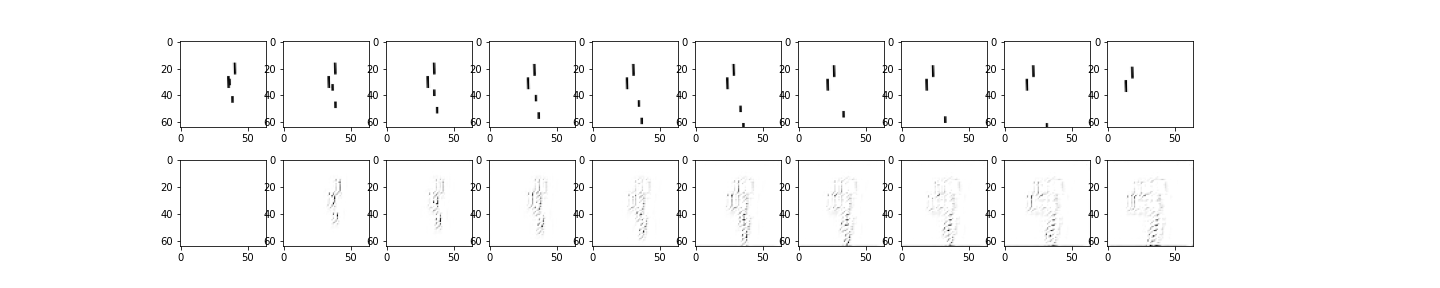
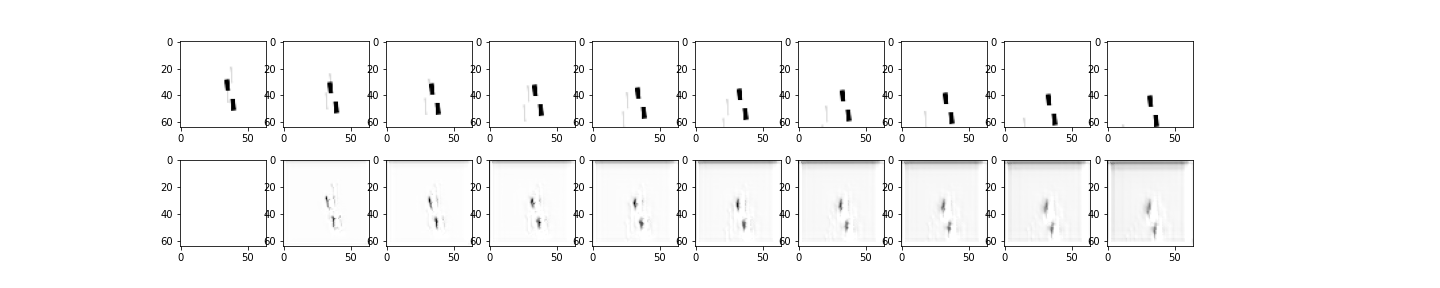
pre_train_lr_finder

diff --git a/find_best_lr.py b/find_best_lr.py
@@ -43,6 +43,22 @@ def find_best_lr(wrapp, obj_type, n_objs, im_dims, batch_size, mode='decode', cu
   batch_maker = BatchMaker(mode, obj_type, n_objs, batch_size, wrapp.n_frames, im_dims)
   lrs         = []
   losses      = []
+
+  # First train over 10 epochs
+  print("First train over 10 epochs")
+  sched_e = tf.keras.experimental.CosineDecayRestarts(
+    initial_learning_rate=2e-4, first_decay_steps=10*64,
+    t_mul=2.0, m_mul=0.9, alpha=0.2)
+  optim_e = tf.keras.optimizers.Adam(sched_e)  
+  optim = tf.keras.optimizers.Adam(scheduler)
+  for e in range(10):
+    for b in range(64):  # batch shape: (batch_s, n_frames) + im_dims
+      batch = tf.stack(batch_maker.generate_batch(), axis=1)/255
+      rec_loss = wrapp.train_step(batch, b, e, optim_e)
+      if b == 0:
+        lr_str = "{:.2e}".format(optim._decayed_lr(tf.float32).numpy())
+        print('\nStarting epoch %03i, lr = %s, rec loss = %.3f' % (e, lr_str, rec_loss))
+
   for s in range(n_samples):
 
     # Compute loss
